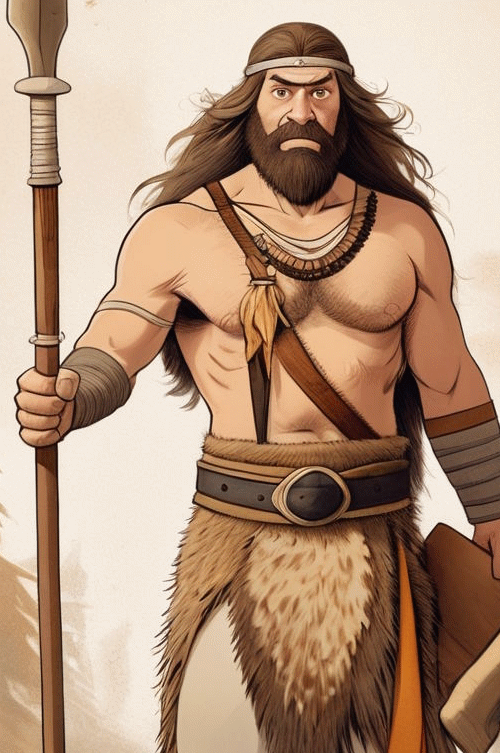
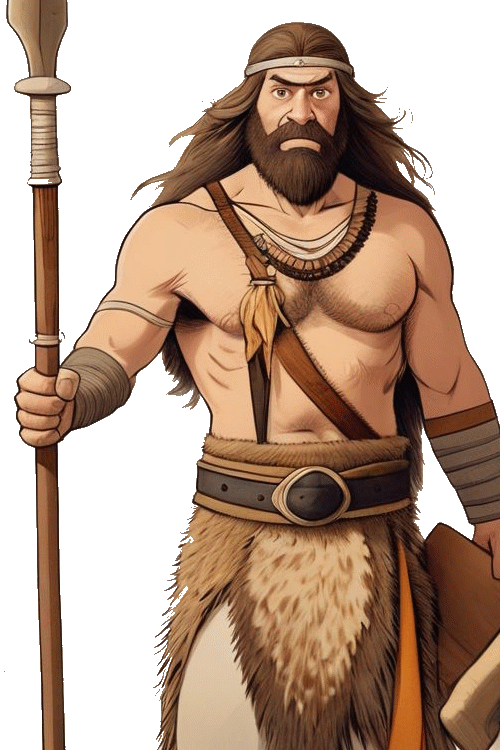
adds characters and modifies prompts

diff --git a/data/cards/card_art_prompts.md b/data/cards/card_art_prompts.md
@@ -34,19 +34,39 @@
 Este es el anchor de estilo que DEBE aparecer en cada prompt para mantener consistencia:
 
 ```
-classic animation illustration style, Studio Ghibli aesthetic, detailed historical accuracy, period-accurate costumes and armor, hand-painted texture, warm natural lighting, rich earth tones, realistic proportions, detailed fabric textures, weathered materials, full body character centered on white background, front-facing pose, professional concept art quality, historical reference book illustration, high detail, no anachronistic elements
+classic animation illustration style, Studio Ghibli aesthetic, detailed historical accuracy, period-accurate costumes and armor, hand-painted texture, warm natural lighting, rich earth tones, realistic proportions, detailed fabric textures, weathered materials, single character standing pose, full body centered on plain white background, front-facing view, single complete illustration, no multiple views, no turnaround sheet, no equipment breakdown
 ```
 
 ### Negative Prompt (usar siempre):
 ```
-anime, modern, futuristic, sci-fi, chibi, cartoon, cute, childish, deformed, bad anatomy, bad proportions, blurry, noisy, dark, gloomy, complex background, multiple characters, text, watermark, signature, extra limbs, ugly, poorly drawn, low quality, 3D render, photorealistic, neon colors, glowing effects, magical auras, fantasy elements
+character sheet, turnaround, multiple views, multiple angles, reference sheet, equipment breakdown, armor pieces separated, weapon details sheet, concept art sheet, design sheet, blueprint, technical drawing, anime, modern, futuristic, sci-fi, chibi, cartoon, cute, childish, deformed, bad anatomy, bad proportions, blurry, noisy, dark, gloomy, complex background, multiple characters, text, watermark, signature, extra limbs, ugly, poorly drawn, low quality, 3D render, photorealistic, neon colors, glowing effects, magical auras, fantasy elements
 ```
 
 ### Parametros recomendados:
 - **Aspect Ratio**: 3:4 (vertical) o 2:3 (portrait)
 - **Style**: Classic Animation / Historical Illustration
-- **Model**: Leonardo Diffusion XL o Midjourney v6 (NO anime models)
+- **Model**: Leonardo Diffusion XL (NO usar Lifelike, NO usar Vision XL)
 - **Consistency**: Usar la misma seed o style reference para todas
+
+---
+
+## Leonardo.ai - Modelo Correcto
+
+### Cómo encontrar Leonardo Diffusion XL:
+1. Ve a "Image Generation" en el menú lateral
+2. En la parte superior, haz click en el dropdown de modelos (dice "Leonardo Diffusion XL" por defecto)
+3. Selecciona **"Leonardo Diffusion XL"** de la lista
+4. NO uses: Lifelike, Vision XL, PhotoXL, Anime XL, ni 3D Animation Style
+
+### Configuración recomendada en Leonardo:
+- **Model**: Leonardo Diffusion XL
+- **Preset**: Cinematic o Illustration (NO Character Sheet)
+- **Resolution**: 768x1024 (3:4 portrait)
+- **Guidance Scale**: 7
+- **Steps**: 30
+- **Alchemy**: OFF (causa más variaciones indeseadas)
+- **PhotoReal**: OFF
+- **Prompt Magic**: ON (v3)
 
 ---
 
@@ -67,12 +87,12 @@ Para maximizar la distintividad de cada época, cada prompt incluye:
 
 #### 1. Caveman Warrior
 ```
-A prehistoric caveman warrior wearing animal fur pelts and bone jewelry, wielding a stone-tipped spear and crude hand axe, muscular build from hunting, wild unkempt hair, face paint with natural ochre, barefoot with leather wraps, aggressive stance, classic animation illustration style, Studio Ghibli aesthetic, detailed historical accuracy, period-accurate costumes, hand-painted texture, warm natural lighting, rich earth tones, realistic proportions, detailed fabric textures, weathered materials, full body character centered on white background, front-facing pose, professional concept art quality, historical reference book illustration, high detail
+A prehistoric caveman warrior wearing animal fur pelts and bone jewelry, wielding a stone-tipped spear and crude hand axe, muscular build from hunting, wild unkempt hair, face paint with natural ochre, barefoot with leather wraps, aggressive stance, classic animation illustration style, Studio Ghibli aesthetic, detailed historical accuracy, period-accurate costumes, hand-painted texture, warm natural lighting, rich earth tones, realistic proportions, detailed fabric textures, weathered materials, single character standing pose, full body centered on plain white background, front-facing view, single complete illustration
 ```
 
 #### 2. Tribal Shaman
 ```
-A prehistoric tribal shaman wearing elaborate feather headdress and animal skull necklace, holding a carved wooden staff with bone charms, painted ritual symbols on skin, wearing layered animal hides and woven grass, mystical but grounded appearance, wise aged face, classic animation illustration style, Studio Ghibli aesthetic, detailed historical accuracy, period-accurate costumes, hand-painted texture, warm natural lighting, rich earth tones, realistic proportions, detailed fabric textures, weathered materials, full body character centered on white background, front-facing pose, professional concept art quality, historical reference book illustration, high detail
+A prehistoric tribal shaman wearing elaborate feather headdress and animal skull necklace, holding a carved wooden staff with bone charms, painted ritual symbols on skin, wearing layered animal hides and woven grass, mystical but grounded appearance, wise aged face, classic animation illustration style, Studio Ghibli aesthetic, detailed historical accuracy, period-accurate costumes, hand-painted texture, warm natural lighting, rich earth tones, realistic proportions, detailed fabric textures, weathered materials, single character standing pose, full body centered on plain white background, front-facing view, single complete illustration
 ```
 
 ---
@@ -81,17 +101,17 @@ A prehistoric tribal shaman wearing elaborate feather headdress and animal skull
 
 #### 3. Iron Age Nomad
 ```
-An Iron Age nomadic warrior wearing layered wool and leather armor with bronze buckles, carrying a composite bow and short iron sword, wearing a fur-lined cap and wrapped trousers, weathered face from travel, riding gear attached to belt, practical and mobile appearance, classic animation illustration style, Studio Ghibli aesthetic, detailed historical accuracy, period-accurate costumes, hand-painted texture, warm natural lighting, rich earth tones, realistic proportions, detailed fabric textures, weathered materials, full body character centered on white background, front-facing pose, professional concept art quality, historical reference book illustration, high detail
+An Iron Age nomadic warrior wearing layered wool and leather armor with bronze buckles, carrying a composite bow and short iron sword, wearing a fur-lined cap and wrapped trousers, weathered face from travel, riding gear attached to belt, practical and mobile appearance, classic animation illustration style, Studio Ghibli aesthetic, detailed historical accuracy, period-accurate costumes, hand-painted texture, warm natural lighting, rich earth tones, realistic proportions, detailed fabric textures, weathered materials, single character standing pose, full body centered on plain white background, front-facing view, single complete illustration
 ```
 
 #### 4. Roman Legionary
 ```
-A Roman legionary soldier wearing segmented lorica segmentata plate armor, red wool tunic underneath, carrying large rectangular scutum shield and gladius short sword, wearing iron gallic helmet with cheek guards, caligae sandals with hobnails, clean-shaven face, disciplined military stance, classic animation illustration style, Studio Ghibli aesthetic, detailed historical accuracy, period-accurate costumes, hand-painted texture, warm natural lighting, rich earth tones, realistic proportions, detailed fabric textures, weathered materials, full body character centered on white background, front-facing pose, professional concept art quality, historical reference book illustration, high detail
+A Roman legionary soldier wearing segmented lorica segmentata plate armor, red wool tunic underneath, carrying large rectangular scutum shield and gladius short sword, wearing iron gallic helmet with cheek guards, caligae sandals with hobnails, clean-shaven face, disciplined military stance, classic animation illustration style, Studio Ghibli aesthetic, detailed historical accuracy, period-accurate costumes, hand-painted texture, warm natural lighting, rich earth tones, realistic proportions, detailed fabric textures, weathered materials, single character standing pose, full body centered on plain white background, front-facing view, single complete illustration
 ```
 
 #### 5. Roman Centurion
 ```
-A Roman centurion officer wearing ornate lorica musculata bronze breastplate with decorative motifs, crimson cloak pinned at shoulder, transverse crest helmet indicating rank, carrying vine staff of command, pugio dagger at belt, armored skirt with leather pteruges, authoritative stance, veteran soldier appearance, classic animation illustration style, Studio Ghibli aesthetic, detailed historical accuracy, period-accurate costumes, hand-painted texture, warm natural lighting, rich earth tones, realistic proportions, detailed fabric textures, weathered materials, full body character centered on white background, front-facing pose, professional concept art quality, historical reference book illustration, high detail
+A Roman centurion officer wearing ornate lorica musculata bronze breastplate with decorative motifs, crimson cloak pinned at shoulder, transverse crest helmet indicating rank, carrying vine staff of command, pugio dagger at belt, armored skirt with leather pteruges, authoritative stance, veteran soldier appearance, classic animation illustration style, Studio Ghibli aesthetic, detailed historical accuracy, period-accurate costumes, hand-painted texture, warm natural lighting, rich earth tones, realistic proportions, detailed fabric textures, weathered materials, single character standing pose, full body centered on plain white background, front-facing view, single complete illustration
 ```
 
 ---
@@ -100,32 +120,32 @@ A Roman centurion officer wearing ornate lorica musculata bronze breastplate wit
 
 #### 6. Viking Raider
 ```
-A Viking raider wearing layered wool tunic over chainmail hauberk, round wooden shield with iron boss, bearded axe, wearing leather helmet with nose guard (NOT horned), fur-trimmed cloak, wool leg wraps, practical seafaring gear, rugged weathered face, braided beard, aggressive stance, classic animation illustration style, Studio Ghibli aesthetic, detailed historical accuracy, period-accurate costumes, hand-painted texture, warm natural lighting, rich earth tones, realistic proportions, detailed fabric textures, weathered materials, full body character centered on white background, front-facing pose, professional concept art quality, historical reference book illustration, high detail
+A Viking raider wearing layered wool tunic over chainmail hauberk, round wooden shield with iron boss, bearded axe, wearing leather helmet with nose guard (NOT horned), fur-trimmed cloak, wool leg wraps, practical seafaring gear, rugged weathered face, braided beard, aggressive stance, classic animation illustration style, Studio Ghibli aesthetic, detailed historical accuracy, period-accurate costumes, hand-painted texture, warm natural lighting, rich earth tones, realistic proportions, detailed fabric textures, weathered materials, single character standing pose, full body centered on plain white background, front-facing view, single complete illustration
 ```
 
 #### 7. Viking Berserker
 ```
-A Viking berserker warrior wearing minimal armor, bare-chested with wolf pelt over shoulders, wielding large Dane axe with two hands, wild eyes and screaming expression, body paint and ritual tattoos, iron armbands and bronze brooches, frenzied combat stance, muscular build, classic animation illustration style, Studio Ghibli aesthetic, detailed historical accuracy, period-accurate costumes, hand-painted texture, warm natural lighting, rich earth tones, realistic proportions, detailed fabric textures, weathered materials, full body character centered on white background, front-facing pose, professional concept art quality, historical reference book illustration, high detail
+A Viking berserker warrior wearing minimal armor, bare-chested with wolf pelt over shoulders, wielding large Dane axe with two hands, wild eyes and screaming expression, body paint and ritual tattoos, iron armbands and bronze brooches, frenzied combat stance, muscular build, classic animation illustration style, Studio Ghibli aesthetic, detailed historical accuracy, period-accurate costumes, hand-painted texture, warm natural lighting, rich earth tones, realistic proportions, detailed fabric textures, weathered materials, single character standing pose, full body centered on plain white background, front-facing view, single complete illustration
 ```
 
 #### 8. Knight Templar
 ```
-A Knight Templar wearing white surcoat with red cross pattée over chainmail hauberk, great helm with flat top and eye slits, carrying heater shield with templar seal, longsword at hip, wearing mail coif under helm, armored gauntlets, disciplined upright posture, clean-shaven face showing piety, classic animation illustration style, Studio Ghibli aesthetic, detailed historical accuracy, period-accurate costumes, hand-painted texture, warm natural lighting, rich earth tones, realistic proportions, detailed fabric textures, weathered materials, full body character centered on white background, front-facing pose, professional concept art quality, historical reference book illustration, high detail
+A Knight Templar wearing white surcoat with red cross pattée over chainmail hauberk, great helm with flat top and eye slits, carrying heater shield with templar seal, longsword at hip, wearing mail coif under helm, armored gauntlets, disciplined upright posture, clean-shaven face showing piety, classic animation illustration style, Studio Ghibli aesthetic, detailed historical accuracy, period-accurate costumes, hand-painted texture, warm natural lighting, rich earth tones, realistic proportions, detailed fabric textures, weathered materials, single character standing pose, full body centered on plain white background, front-facing view, single complete illustration
 ```
 
 #### 9. Medieval Witch
 ```
-A medieval village witch wearing simple wool dress with linen apron, leather belt with herb pouches and glass vials, wooden staff with carved runes, wearing a pointed wool hood, weathered aged face with knowing expression, carrying basket of gathered herbs, practical peasant clothing with mystical accessories, classic animation illustration style, Studio Ghibli aesthetic, detailed historical accuracy, period-accurate costumes, hand-painted texture, warm natural lighting, rich earth tones, realistic proportions, detailed fabric textures, weathered materials, full body character centered on white background, front-facing pose, professional concept art quality, historical reference book illustration, high detail
+A medieval village witch wearing simple wool dress with linen apron, leather belt with herb pouches and glass vials, wooden staff with carved runes, wearing a pointed wool hood, weathered aged face with knowing expression, carrying basket of gathered herbs, practical peasant clothing with mystical accessories, classic animation illustration style, Studio Ghibli aesthetic, detailed historical accuracy, period-accurate costumes, hand-painted texture, warm natural lighting, rich earth tones, realistic proportions, detailed fabric textures, weathered materials, single character standing pose, full body centered on plain white background, front-facing view, single complete illustration
 ```
 
 #### 10. Crusader Knight
 ```
-A Crusader knight wearing chainmail hauberk with blue surcoat displaying cross, kettle helm or early great helm, carrying kite shield with crusader emblem, longsword and mace, mail chausses covering legs, battle-worn armor showing campaign wear, tanned face from eastern sun, determined expression, classic animation illustration style, Studio Ghibli aesthetic, detailed historical accuracy, period-accurate costumes, hand-painted texture, warm natural lighting, rich earth tones, realistic proportions, detailed fabric textures, weathered materials, full body character centered on white background, front-facing pose, professional concept art quality, historical reference book illustration, high detail
+A Crusader knight wearing chainmail hauberk with blue surcoat displaying cross, kettle helm or early great helm, carrying kite shield with crusader emblem, longsword and mace, mail chausses covering legs, battle-worn armor showing campaign wear, tanned face from eastern sun, determined expression, classic animation illustration style, Studio Ghibli aesthetic, detailed historical accuracy, period-accurate costumes, hand-painted texture, warm natural lighting, rich earth tones, realistic proportions, detailed fabric textures, weathered materials, single character standing pose, full body centered on plain white background, front-facing view, single complete illustration
 ```
 
 #### 11. Mongol Horse Archer
 ```
-A Mongol horse archer wearing layered silk and leather lamellar armor, fur-trimmed hat with ear flaps, composite recurve bow made from horn and sinew, quiver of arrows at belt, wearing practical riding boots and trousers, weathered steppe face with high cheekbones, compact muscular build from riding, alert scanning pose, classic animation illustration style, Studio Ghibli aesthetic, detailed historical accuracy, period-accurate costumes, hand-painted texture, warm natural lighting, rich earth tones, realistic proportions, detailed fabric textures, weathered materials, full body character centered on white background, front-facing pose, professional concept art quality, historical reference book illustration, high detail
+A Mongol horse archer wearing layered silk and leather lamellar armor, fur-trimmed hat with ear flaps, composite recurve bow made from horn and sinew, quiver of arrows at belt, wearing practical riding boots and trousers, weathered steppe face with high cheekbones, compact muscular build from riding, alert scanning pose, classic animation illustration style, Studio Ghibli aesthetic, detailed historical accuracy, period-accurate costumes, hand-painted texture, warm natural lighting, rich earth tones, realistic proportions, detailed fabric textures, weathered materials, single character standing pose, full body centered on plain white background, front-facing view, single complete illustration
 ```
 
 ---
@@ -134,17 +154,17 @@ A Mongol horse archer wearing layered silk and leather lamellar armor, fur-trimm
 
 #### 12. Samurai Warrior
 ```
-A samurai warrior wearing ornate lacquered lamellar armor (lamellar plates laced together), kabuto helmet with family crest (mon), menpo face mask, carrying katana and wakizashi daisho pair, wearing hakama trousers and waraji sandals, disciplined posture, shaved forehead with topknot, honorable bearing, classic animation illustration style, Studio Ghibli aesthetic, detailed historical accuracy, period-accurate costumes, hand-painted texture, warm natural lighting, rich earth tones, realistic proportions, detailed fabric textures, weathered materials, full body character centered on white background, front-facing pose, professional concept art quality, historical reference book illustration, high detail
+A samurai warrior wearing ornate lacquered lamellar armor (lamellar plates laced together), kabuto helmet with family crest (mon), menpo face mask, carrying katana and wakizashi daisho pair, wearing hakama trousers and waraji sandals, disciplined posture, shaved forehead with topknot, honorable bearing, classic animation illustration style, Studio Ghibli aesthetic, detailed historical accuracy, period-accurate costumes, hand-painted texture, warm natural lighting, rich earth tones, realistic proportions, detailed fabric textures, weathered materials, single character standing pose, full body centered on plain white background, front-facing view, single complete illustration
 ```
 
 #### 13. Ronin
 ```
-A ronin masterless samurai wearing worn and faded armor with mismatched pieces, straw hat (kasa) hiding face, carrying katana with worn wrapping, wearing travel-stained kimono and geta sandals, unshaven face with weary expression, carrying belongings in cloth bundle, wandering swordsman appearance, classic animation illustration style, Studio Ghibli aesthetic, detailed historical accuracy, period-accurate costumes, hand-painted texture, warm natural lighting, rich earth tones, realistic proportions, detailed fabric textures, weathered materials, full body character centered on white background, front-facing pose, professional concept art quality, historical reference book illustration, high detail
+A ronin masterless samurai wearing worn and faded armor with mismatched pieces, straw hat (kasa) hiding face, carrying katana with worn wrapping, wearing travel-stained kimono and geta sandals, unshaven face with weary expression, carrying belongings in cloth bundle, wandering swordsman appearance, classic animation illustration style, Studio Ghibli aesthetic, detailed historical accuracy, period-accurate costumes, hand-painted texture, warm natural lighting, rich earth tones, realistic proportions, detailed fabric textures, weathered materials, single character standing pose, full body centered on plain white background, front-facing view, single complete illustration
 ```
 
 #### 14. Shinobi Ninja
 ```
-A shinobi ninja wearing dark indigo-dyed shozoku outfit with hooded mask, lightweight armor hidden under cloth, carrying ninjato straight sword and climbing tools, wearing tabi split-toe boots, carrying shuriken and smoke bombs at belt, crouched stealthy pose, only eyes visible above mask, athletic build, classic animation illustration style, Studio Ghibli aesthetic, detailed historical accuracy, period-accurate costumes, hand-painted texture, warm natural lighting, rich earth tones, realistic proportions, detailed fabric textures, weathered materials, full body character centered on white background, front-facing pose, professional concept art quality, historical reference book illustration, high detail
+A shinobi ninja wearing dark indigo-dyed shozoku outfit with hooded mask, lightweight armor hidden under cloth, carrying ninjato straight sword and climbing tools, wearing tabi split-toe boots, carrying shuriken and smoke bombs at belt, crouched stealthy pose, only eyes visible above mask, athletic build, classic animation illustration style, Studio Ghibli aesthetic, detailed historical accuracy, period-accurate costumes, hand-painted texture, warm natural lighting, rich earth tones, realistic proportions, detailed fabric textures, weathered materials, single character standing pose, full body centered on plain white background, front-facing view, single complete illustration
 ```
 
 ---
@@ -153,12 +173,12 @@ A shinobi ninja wearing dark indigo-dyed shozoku outfit with hooded mask, lightw
 
 #### 15. Ottoman Janissary
 ```
-An Ottoman janissary wearing distinctive white felt borek headdress, blue caftan robe with decorative trim, carrying matchlock musket and kilij curved sword, wearing leather armor over robes, leather boots with pointed toes, disciplined military stance, clean-shaven face with mustache, elite imperial soldier appearance, classic animation illustration style, Studio Ghibli aesthetic, detailed historical accuracy, period-accurate costumes, hand-painted texture, warm natural lighting, rich earth tones, realistic proportions, detailed fabric textures, weathered materials, full body character centered on white background, front-facing pose, professional concept art quality, historical reference book illustration, high detail
+An Ottoman janissary wearing distinctive white felt borek headdress, blue caftan robe with decorative trim, carrying matchlock musket and kilij curved sword, wearing leather armor over robes, leather boots with pointed toes, disciplined military stance, clean-shaven face with mustache, elite imperial soldier appearance, classic animation illustration style, Studio Ghibli aesthetic, detailed historical accuracy, period-accurate costumes, hand-painted texture, warm natural lighting, rich earth tones, realistic proportions, detailed fabric textures, weathered materials, single character standing pose, full body centered on plain white background, front-facing view, single complete illustration
 ```
 
 #### 16. French Musketeer
 ```
-A French musketeer wearing blue cassock with white cross, broad-brimmed hat with feather, carrying wheel-lock musket and rapier sword, wearing leather bandolier with powder charges, leather boots with fold-over cuffs, flamboyant noble bearing, styled mustache and goatee, confident swaggering pose, classic animation illustration style, Studio Ghibli aesthetic, detailed historical accuracy, period-accurate costumes, hand-painted texture, warm natural lighting, rich earth tones, realistic proportions, detailed fabric textures, weathered materials, full body character centered on white background, front-facing pose, professional concept art quality, historical reference book illustration, high detail
+A French musketeer wearing blue cassock with white cross, broad-brimmed hat with feather, carrying wheel-lock musket and rapier sword, wearing leather bandolier with powder charges, leather boots with fold-over cuffs, flamboyant noble bearing, styled mustache and goatee, confident swaggering pose, classic animation illustration style, Studio Ghibli aesthetic, detailed historical accuracy, period-accurate costumes, hand-painted texture, warm natural lighting, rich earth tones, realistic proportions, detailed fabric textures, weathered materials, single character standing pose, full body centered on plain white background, front-facing view, single complete illustration
 ```
 
 ---
@@ -167,10 +187,11 @@ A French musketeer wearing blue cassock with white cross, broad-brimmed hat with
 
 ### Step 1: Generate Test Image
 1. Toma el prompt del Caveman Warrior (#1) con el estilo Ghibli/histórico
-2. Genera 4 variaciones en Leonardo Diffusion XL o Midjourney v6
+2. Genera 4 variaciones en **Leonardo Diffusion XL** (NO Lifelike, NO Vision XL)
 3. Elige la que mejor represente el estilo clásico deseado
 4. Guarda esta imagen como "style_reference.png"
 5. Verifica que tenga: detalle histórico, materiales realistas, colores tierra, sin elementos futuristas
+6. Verifica que sea UNA SOLA imagen del personaje, NO un character sheet
 
 ### Step 2: Usar Style Reference
 - **Leonardo.ai**: Sube style_reference.png como "Image Guidance" con modo "Style Reference"
@@ -215,9 +236,9 @@ Si quieres máxima consistencia:
 4. Resultado: 95%+ consistencia de estilo
 
 **Modelos recomendados para LoRA**:
-- Leonardo Diffusion XL (base para entrenar)
+- Leonardo Diffusion XL (base para entrenar) - MEJOR para este estilo
 - Stable Diffusion XL (excelente para realismo histórico)
-- Midjourney v6 (si puedes pagar, mejor calidad)
+- NO usar: Lifelike, Vision XL, PhotoXL, Anime XL
 
 **Costo**: ~$5-10 USD para entrenamiento
 **Tiempo**: 2-4 horas de entrenamiento
@@ -257,5 +278,5 @@ Cuando agregues personajes legendarios, mantén el mismo style guide pero agrega
 
 Ejemplo para Gilgamesh:
 ```
-Gilgamesh, legendary Sumerian king, wearing ornate golden armor with lion motifs, holding divine weapon, majestic beard, crown of horns, heroic imposing stance, classic animation illustration style, Studio Ghibli aesthetic, detailed historical accuracy, period-accurate ancient Mesopotamian costumes, hand-painted texture, warm natural lighting, rich earth tones, realistic proportions, detailed fabric textures, weathered materials, full body character centered on white background, front-facing pose, professional concept art quality, historical reference book illustration, high detail, legendary hero aura, iconic historical appearance
+Gilgamesh, legendary Sumerian king, wearing ornate golden armor with lion motifs, holding divine weapon, majestic beard, crown of horns, heroic imposing stance, classic animation illustration style, Studio Ghibli aesthetic, detailed historical accuracy, period-accurate ancient Mesopotamian costumes, hand-painted texture, warm natural lighting, rich earth tones, realistic proportions, detailed fabric textures, weathered materials, single character standing pose, full body centered on plain white background, front-facing view, single complete illustration, legendary hero aura, iconic historical appearance
 ```
